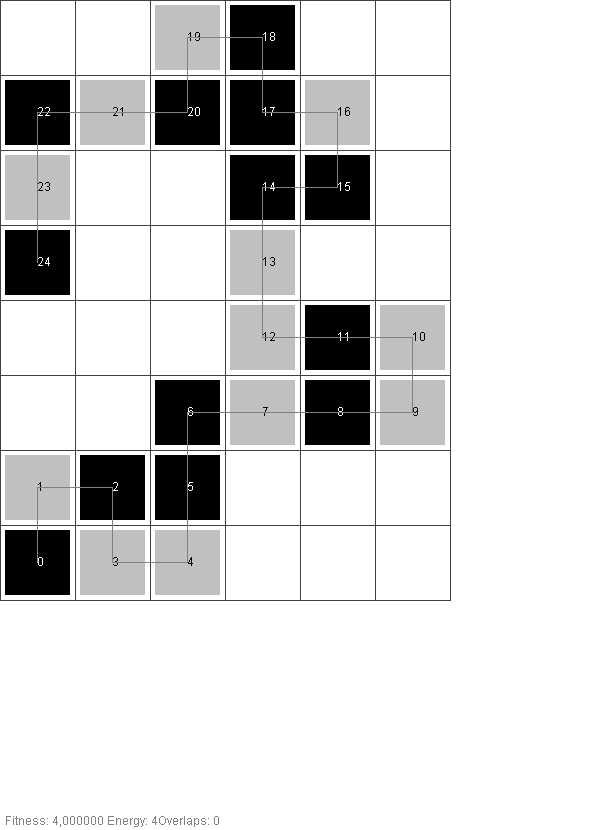
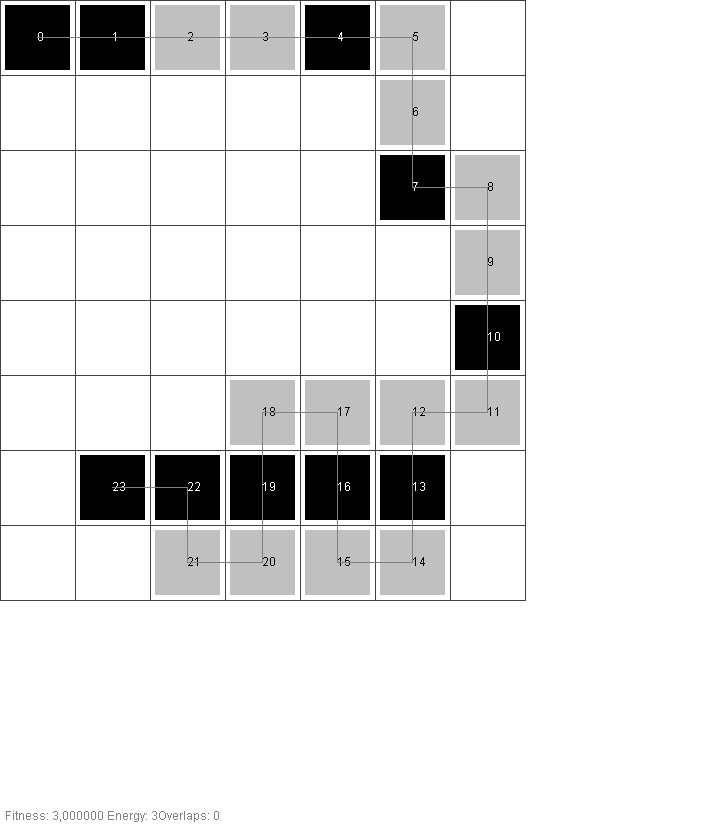
add docs and optimize

Changed region(s): [[0.0, 0.0, 0.7488, 0.7273], [0.0, 0.9697, 0.312, 1.0], [0.0, 0.4242, 0.0312, 0.4545]]

diff --git a/src/Util/GeneticAlgorithm.java b/src/Util/GeneticAlgorithm.java
@@ -35,10 +35,13 @@ public class GeneticAlgorithm {
 
 
   public Folding findBestFolding() {                                                                // 2. highest fitness evaluation
+    // Gen 0
     bestFolding = population.getBestFolding();
     Imaging i = new Imaging();
     i.drawFolding(bestFolding,population.getSequence(), "best_folding_genz.png");
 
+    // ====================
+    // Start with evolutionary process
     int genCounter = 0;
     while (genCounter < maxGenerations) {                                                           // 3. update for the "better" populations
       // log all generation data
@@ -46,7 +49,7 @@ public class GeneticAlgorithm {
 
       // if a better population was found log it
       if (population.getFitnessOfBestFolding() > bestFolding.analyzeFolding(population.getSequence())) bestFolding = population.getBestFolding();
-      population = new Population(population.getSequence(), fitnessProportionateSelection(population)); // 4. find the nearest best folding
+      population = new Population(population.getSequence(), fitnessProportionateSelection(population)); // 4. find best candidates and move on to next generation
       System.out.printf("Generation #%d%n", genCounter);
       genCounter++;
     }
@@ -76,6 +79,7 @@ public class GeneticAlgorithm {
     }
   }
 
+
   private List<Folding> fitnessProportionateSelection(Population population) {
 
     // get sum of fitness in all population candidates
@@ -83,22 +87,23 @@ public class GeneticAlgorithm {
     for (Folding f : population.getGeneration())
       popFit += f.analyzeFolding(population.getSequence());
 
-    // GO THROUGH ALL GENERATIONS
-    // give each candidate in population the chance to survive rng´ed by its fitness level in ration to total fitness
-    List<Folding> newPopulation = new ArrayList<>(population.getGeneration().size());
-    Random rng = new Random();
-    for (int i = 0; i < population.getGeneration().size(); i++) {
-      double selectedVal = rng.nextDouble() * popFit; // 0, 0.1, ..., 1 * total fitness as rng value in the selection
 
-      // GO THROUGH ALL FOLDINGS IN GENERATION
-      // sum counter to avoid choosing too many foldings. If we added up to the population were done
+    Random rng = new Random();
+    List<Folding> newPopulation = new ArrayList<>(population.getGeneration().size());
+
+    for (int i = 0; i < population.getGeneration().size(); i++) {                                   // always get 1 each loop from 0-x: so same size generated again
+      double selectedVal = rng.nextDouble() * popFit; // fitness proportionate: rng value between 0 - 1 * total fitness as threshold
+
+
       float curSum = 0;
-      for (Folding f : population.getGeneration()) {
+      for (Folding f : population.getGeneration()) {                                                // go through each folding of population, add up sum. Higher values higher chance of passing the rng threshold
         curSum += f.analyzeFolding(population.getSequence());
-        if(curSum >= selectedVal) { // if we surpassed the total of all candidates we filtered out the better ones - break
+
+        if(curSum >= selectedVal) {                                                                 // if we surpassed the threshold take that folding into next generation - break and start over until x foldings filled
           newPopulation.add(new Folding(f.getDirections()));
           break;
         }
+
       }
     }
     return newPopulation;

diff --git a/src/Main.java b/src/Main.java
@@ -28,10 +28,12 @@ public class Main {
 
     // 0 - hydrophil | 1 - hydrophobe
     List<String> sequences = Arrays.asList(
-        "101001101010101",               // Seq15
-        "10100110100100110101",          // Seq20
-        "1010011010010011011010101",     // Seq25
-        "101001101001001101101010110101" // Seq30
+        "10100110100101100101",                               // Seq20
+        "110010010010010010010011",                           // Seq24
+        "0010011000011000011000011",                          // Seq25
+        "000110011000001111111001100001100100",               // Seq36
+        "001001100110000011111111110000001100110010011111",   // Seq48
+        "11010101011110100010001000010001000101111010101011"  // Seq50
     );
 
     int counter = 0;

diff --git a/src/Base/Population.java b/src/Base/Population.java
@@ -12,16 +12,17 @@ public class Population {
   private final int populationSize;
 
   /* Getters */
-  public String getSequence() {return sequence;}
-  public List<Folding> getGeneration() {return generation;}
+  public String getSequence() { return sequence; }
+  public List<Folding> getGeneration() { return generation; }
 
 
   /* Constructor */
   /* Initial constructor */
-  public Population(String sequence, int elements) {
-    this.populationSize = elements;
+  public Population(String sequence, int populationSize) {
+    this.populationSize = populationSize;
     this.sequence = sequence;
     this.generation = new LinkedList<>();
+    // Call to randomPopulation in GeneticAlgorithm
   }
 
   /* Used for next generations */
